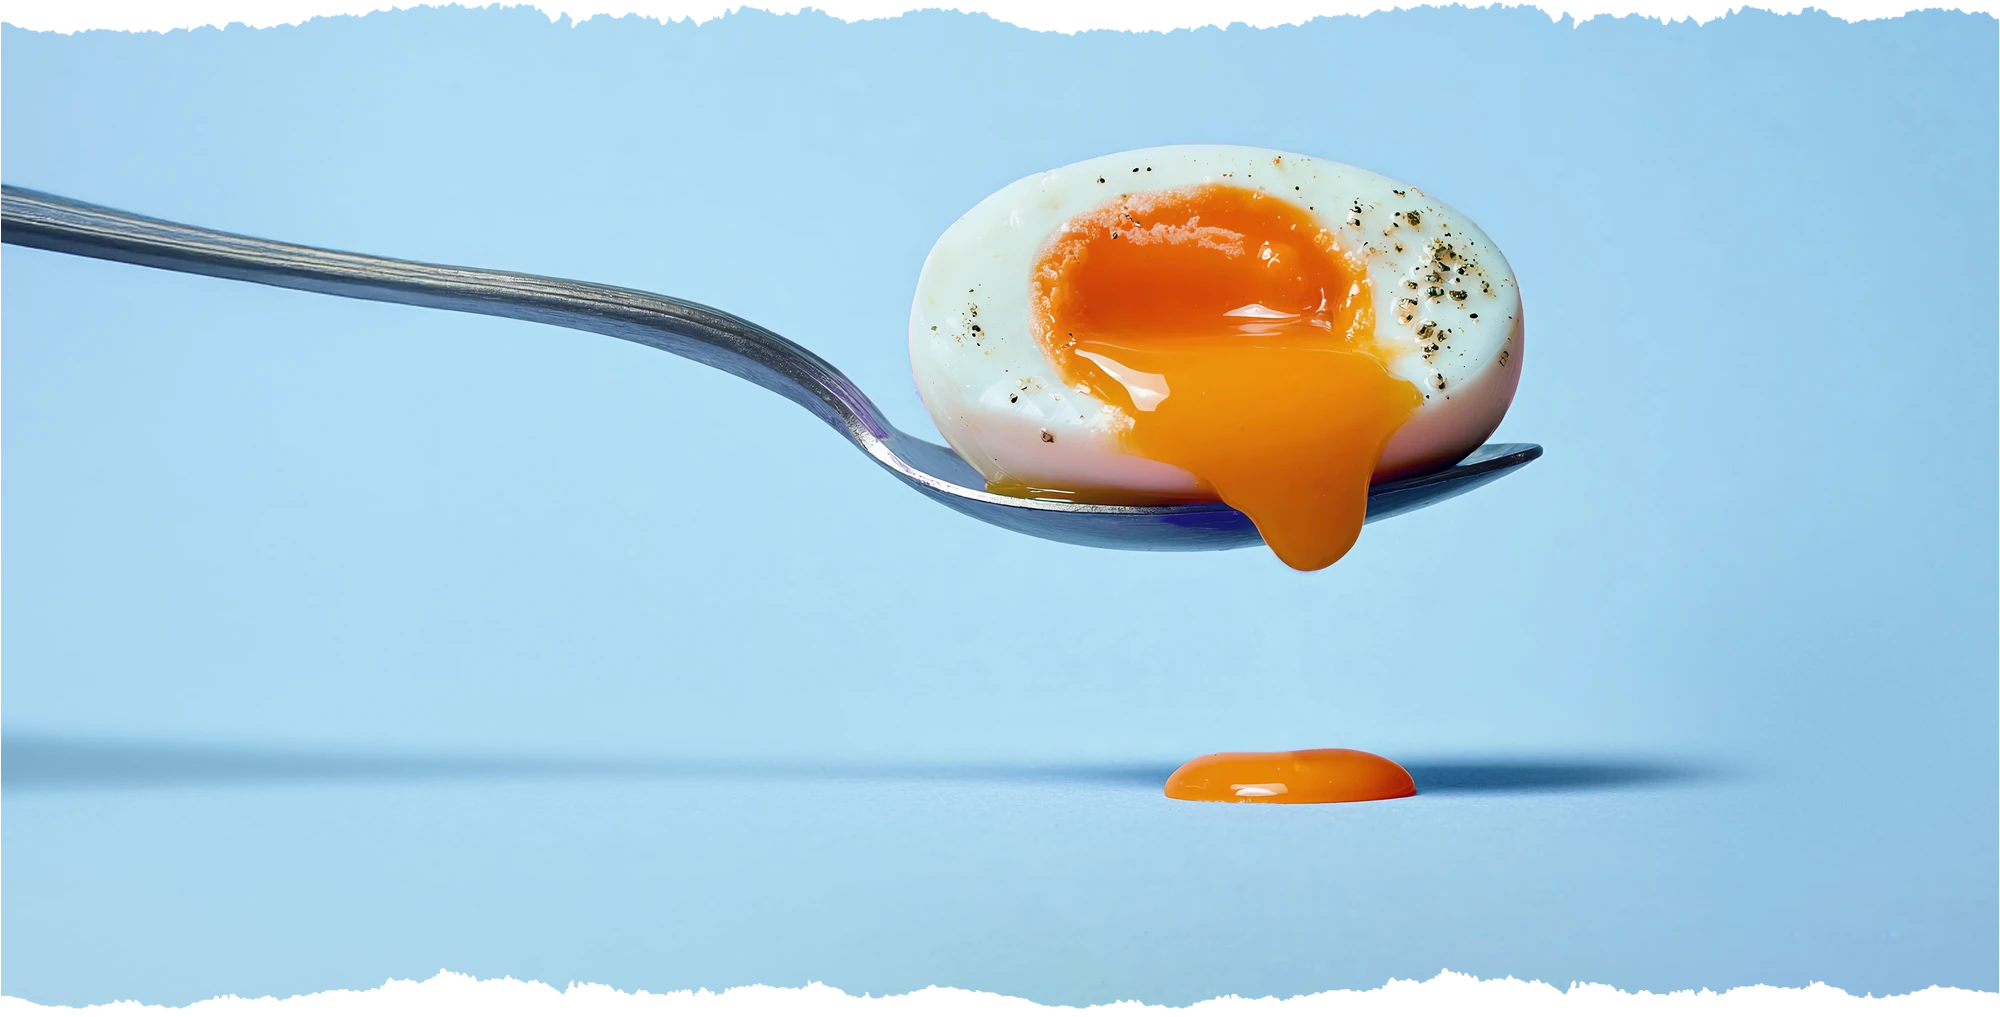
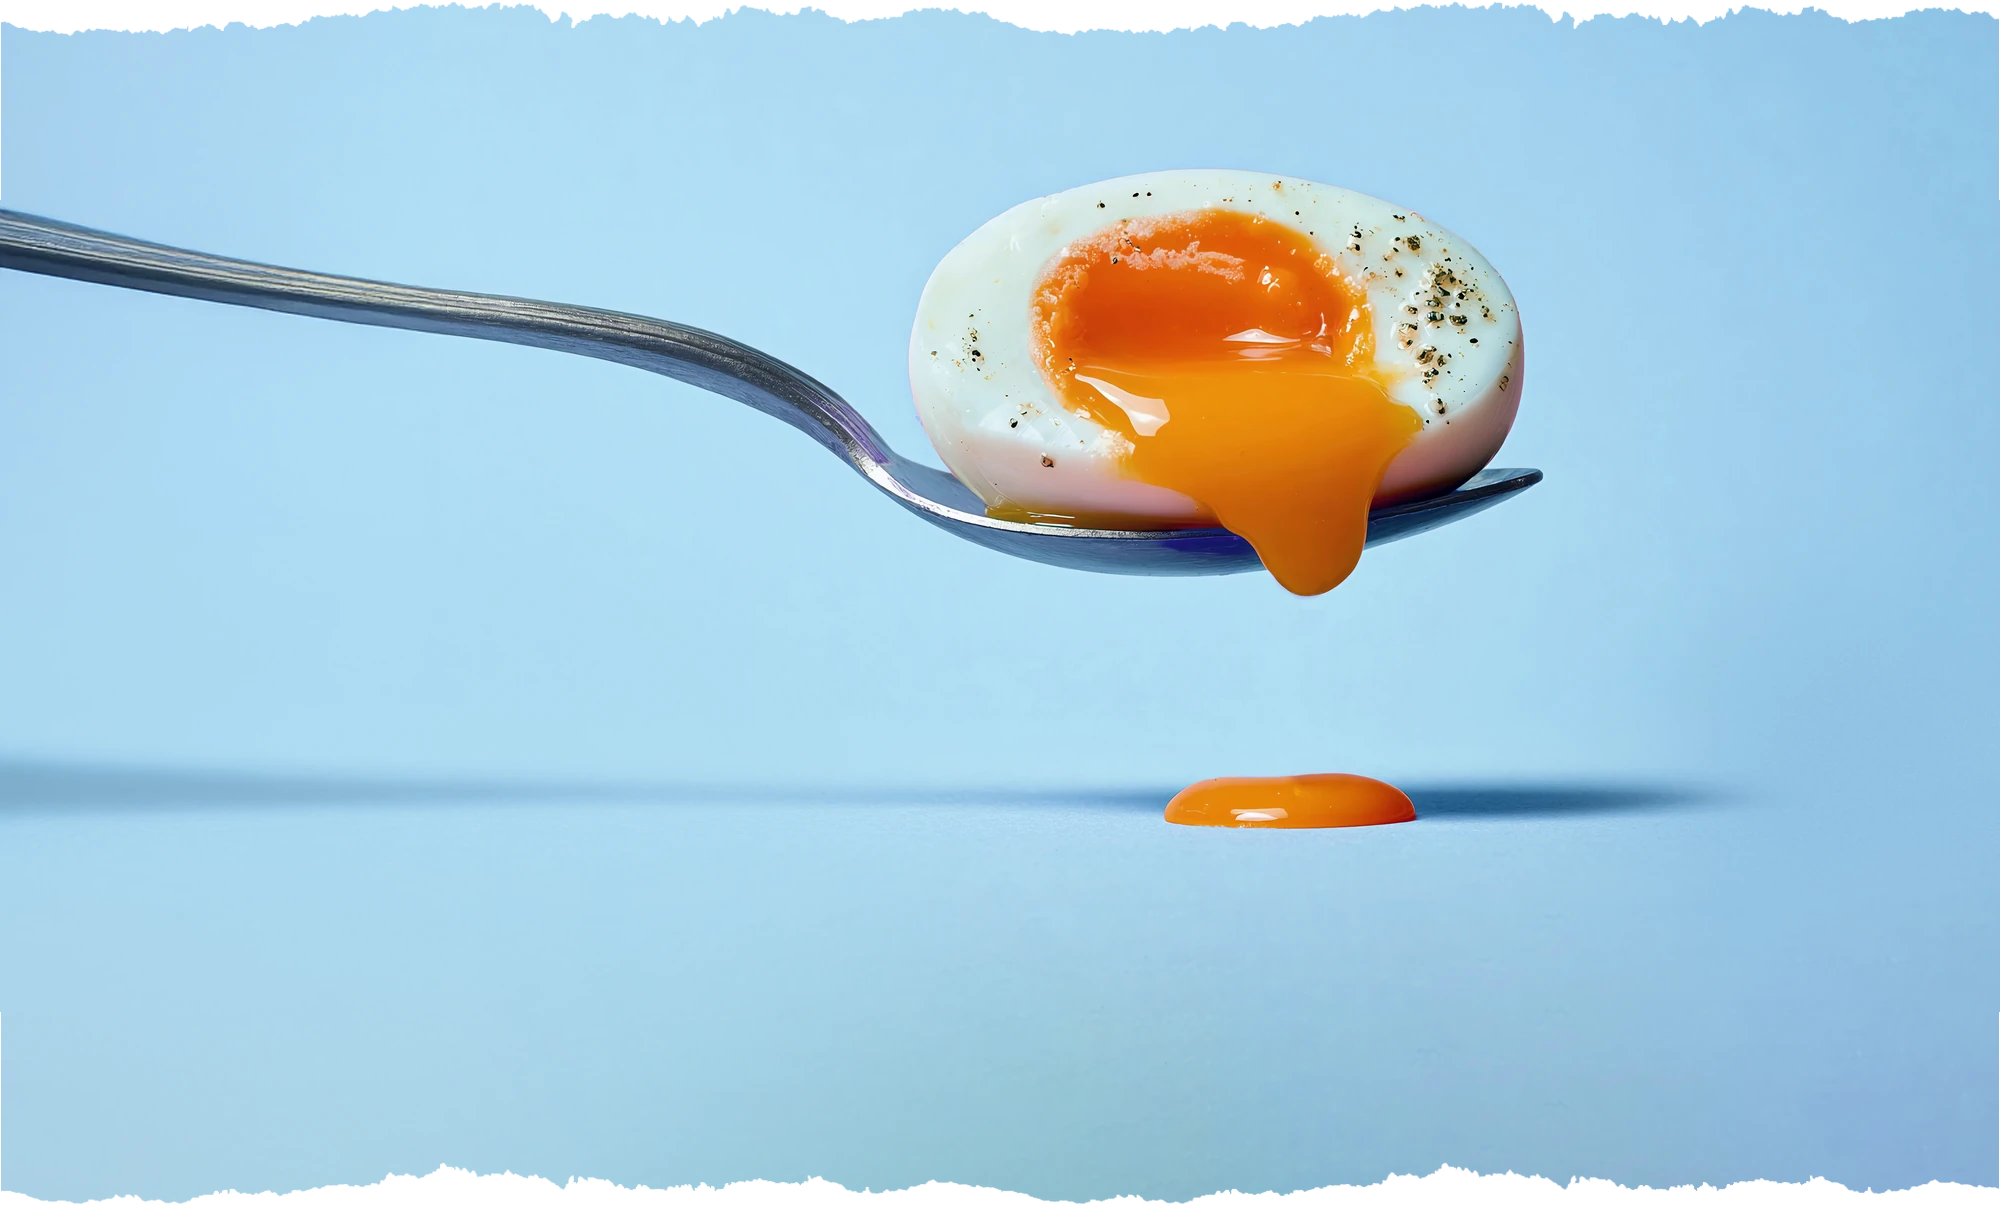
Jammy band: more blue under the button, and un-hide the section
The business asked twice for more bottom padding under "Explore Jammy".
Two changes get it, because neither alone was enough.

The banner is re-cut taller -- 2000x1212 against the old 2000x1017. The
band's height is locked to the artwork's aspect so the torn edges show in
full, so the only way to grow the band is to grow the artwork. The crop
was using 4428 of the source frame's 5837 rows; it now runs down to the
frame's bottom edge. The torn alpha is carried over from the old cut.

That bought 32->46px at 1024, 51->71px at 1440, 87->114px at 1920 -- and
exhausted the photograph. The crop cannot go taller: it already ends at
the frame's bottom edge, and more height would only add sky above the
spoon.

So the rest comes from inside the overlay. The headline moves up to the
spoon handle's measured clearance line (44.31% of the artwork's own
pixels in the new cut, so 44.5%), and the two internal gaps come down
from 5.3 and 4.2 points to 3.0 and 2.5. Final blue below the button:
74px at 1024, 111px at 1440, 166px at 1920 -- roughly double where it
started. Headline/body/button stay aligned to 0.0px and nothing overlaps
from 390 to 2560.

Also drops a dead `top: 89.5%` that a later declaration in the same rule
had been overriding.

item1's guard was measuring the wrong thing: a flat `blueBelow >= 40`
passed the pre-fix layout at every width (71px at 1440, 114px at 1920),
so it could not have caught a revert. The band scales with the viewport,
[…]

diff --git a/styles/globals.css b/styles/globals.css
@@ -581,7 +581,12 @@
   /* Matches the artwork's own ratio so its torn edges show in full rather than
      being cropped by the band's box. */
   .jammy-cta {
-    aspect-ratio: 2000 / 1017;
+    /* Matches the artwork exactly. The banner was re-cut taller -- 2000x1212
+       against the old 2000x1017 -- to take in more of the source frame below
+       the spoon, which is what gives the button room to breathe at the bottom
+       of the band. If the artwork is ever recut, this has to move with it or
+       the torn edges get cropped. */
+    aspect-ratio: 2000 / 1212;
     display: block;
   }
   /* 100% 100% rather than cover: the torn edges live in the artwork's alpha,
@@ -628,7 +633,7 @@
        and happened to land near the copy's edge. Left-aligned, that 2.3-point
        difference put the M and G 24-45px left of the paragraph. */
     left: 4.878%;
-    top: 45%;
+    top: 44.5%;
     width: 45.157%;
     margin: 0;
     font-size: 4.4599cqw;
@@ -645,7 +650,7 @@
   .jammy-cta__body {
     position: absolute;
     left: 4.878%;
-    top: 65%;
+    top: 62.2%;
     width: 45.157%;
     max-width: none;
     margin: 0;
@@ -660,10 +665,6 @@
   .jammy-cta__cta {
     position: absolute;
     left: 4.878%;
-    /* 89.5%: moved down with the rest of the block, keeping ~2% under the body
-       copy. Ends at 95.5%; the torn fringe does not bite into the button's
-       x-span until 97.2%, so this stays clear of it. */
-    top: 89.5%;
     /* Width and height come from the type now, not from the overlay's own
        box. The button previously held a fixed 5.955% height (~46px) and was
        sized to fit it at ~18.7px, which is why it read small beside the
@@ -680,22 +681,22 @@
        2.5cqw is 36px at a 1440 band: the same size the page's other CTAs
        take, at the width the design is drawn for. Below that it scales with
        everything else in the overlay rather than crowding it. */
-    /* The whole overlay block -- headline, body and this button -- sits 3
-       points higher than it did (48/68/88.4 -> 45/65/85.4), which is what
-       gives the band more blue under the button: QA asked for "a little extra
-       bottom padding ... more blue space". The band's height cannot simply
-       grow, because it is locked to the artwork's 2000/1017 aspect so the
-       torn edges show in full; moving the content up is what frees the room.
-       All three move together, so their spacing relative to each other is
-       unchanged.
+    /* The business asked twice for more blue under this button. The band's
+       height cannot simply grow -- it is locked to the artwork's aspect so the
+       torn edges show in full -- and the artwork cannot be re-cut any taller
+       either: the 2000x1212 crop already ends at the source photograph's
+       bottom edge. The only room left is inside the overlay, so the block was
+       tightened rather than moved: the headline went up to the spoon's
+       clearance line (44.5%) and the two internal gaps came down from 5.3 and
+       4.2 points to 3.0 and 2.5.
 
-       Anchored below the copy, which ends at a stable 87.3% of the band at
-       every width. A bottom anchor held the fringe clearance but let the
-       button drift up into that copy as the band shrank (-1px at 1024); a
-       fixed top anchor plus a height that no longer scales did the reverse.
-       88.4% sits just under the copy and, with the type scaling as below,
-       ends at 95-96% -- clear of the 97.2% where the torn fringe bites. */
-    top: 85.4%;
+       Anchored below the copy. A bottom anchor held the fringe clearance but
+       let the button drift up into that copy as the band shrank (-1px at
+       1024); a fixed top anchor plus a height that no longer scales did the
+       reverse. 80.9% sits just under the copy and, with the type scaling as
+       below, ends at 85-88% -- well clear of the 96.04% where the bottom tear
+       first enters the copy column. */
+    top: 80.9%;
     bottom: auto;
     /* Capped at 36px, the size the page's other CTAs take ("Find a Store Near
        You", "More Recipes", "Learn More About Our Family Farms" are all a flat

diff --git a/scripts/qa/jammy/item1.js b/scripts/qa/jammy/item1.js
@@ -48,6 +48,7 @@ const R=[];const ck=(n,p,d='')=>{R.push(p);console.log(`${p?'PASS':'FAIL'}  ${n}
               faceRenders: Math.abs(withFace-fallback)>0.5,
               gapUnderCopy: body?Math.round(r.top-body.getBoundingClientRect().bottom):null,
               blueBelow: band?Math.round(br.bottom-r.bottom):null,
+              bandH: band?Math.round(br.height):null,
               endsPct:+(((r.bottom-br.top)/br.height)*100).toFixed(1),
               overlaid:getComputedStyle(jammy).position==='absolute'};
     });
@@ -79,13 +80,25 @@ const R=[];const ck=(n,p,d='')=>{R.push(p);console.log(`${p?'PASS':'FAIL'}  ${n}
          `${m.jammy.fs}px vs ${m.ref.fs}px`);
 
     if(m.overlaid && m.blueBelow!==null){
-      // QA: "a little extra bottom padding on the section ... more blue
-      // space." The button sat 16-29px off the band's bottom edge on desktop;
-      // the whole overlay block moved up 3 points to roughly double that. The
-      // band's own height cannot grow -- it is locked to the artwork's
-      // 2000/1017 aspect so the torn edges show in full.
-      ck('blue space below the button', m.blueBelow>=30,
-         `${m.blueBelow}px below the button`);
+      // QA, twice: "a little extra bottom padding on the section ... more
+      // blue space." Two things bought it -- the banner re-cut taller
+      // (2000x1212 against the old 2000x1017), and then the overlay block
+      // tightened internally: the headline up to the spoon's clearance line
+      // and the two internal gaps down from 5.3/4.2 points to 3.0/2.5.
+      //
+      // Measured as a SHARE of the band, not a flat pixel count. The band
+      // scales with the viewport, so one flat bound cannot hold: 46px is
+      // right at 1024 and a regression at 1920. A flat >=40 was the bug here
+      // -- it passed the pre-fix layout at every width (71px at 1440, 114px
+      // at 1920), so this check could not have caught a revert.
+      //
+      // The button ends at 84.5-88.1% of the band across 1024-2560, so the
+      // blue below it is 11.9-15.5%. >=11% sits just under the narrowest of
+      // those; the pre-fix layout measured 7.4-9.8% and fails it at every
+      // width.
+      const bluePct = m.blueBelow/m.bandH*100;
+      ck('blue space below the button', bluePct>=11,
+         `${m.blueBelow}px = ${bluePct.toFixed(1)}% of the ${m.bandH}px band`);
     }
 
     if(m.overlaid){

diff --git a/scripts/qa/jammy/item2.js b/scripts/qa/jammy/item2.js
@@ -51,11 +51,16 @@ const R=[];const ck=(n,p,d='')=>{R.push(p);console.log(`${p?'PASS':'FAIL'}  ${n}
             sm:   await read('/images/jammy/cta-messy-sm.webp')};
   });
 
-  for (const [tag,exp] of [['full',{w:2000,h:1017}],['sm',{w:1200,h:610}]]) {
+  for (const [tag,exp] of [['full',{w:2000,h:1212}],['sm',{w:1200,h:727}]]) {
     const a=m[tag];
     console.log(`\n  --- cta-messy${tag==='sm'?'-sm':''}.webp ---`);
     if(!a){ ck(`${tag}: decodes`, false); continue; }
-    ck(`${tag}: banner dimensions unchanged`, a.w===exp.w && a.h===exp.h, `${a.w}x${a.h}`);
+    // 2000x1212 / 1200x727, not the previous 2000x1017 / 1200x610: the banner
+    // was re-cut taller (aspect 1.9666 -> 1.65) to take in more of the source
+    // frame below the spoon, which is what gives the button room at the bottom
+    // of the band. The CSS aspect-ratio moved with it; if these two ever
+    // disagree the torn edges get cropped.
+    ck(`${tag}: banner at its shipped size`, a.w===exp.w && a.h===exp.h, `${a.w}x${a.h}`);
     // The torn edges live in the alpha. A re-encode that drops it (saving as
     // RGB, or an encoder without -alpha_q) squares off the band silently.
     ck(`${tag}: keeps its transparency`, a.clear>0, `${a.clear} transparent px`);
